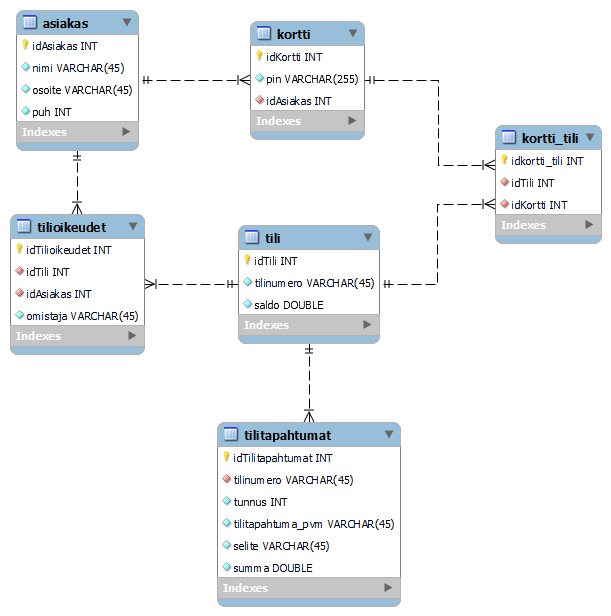
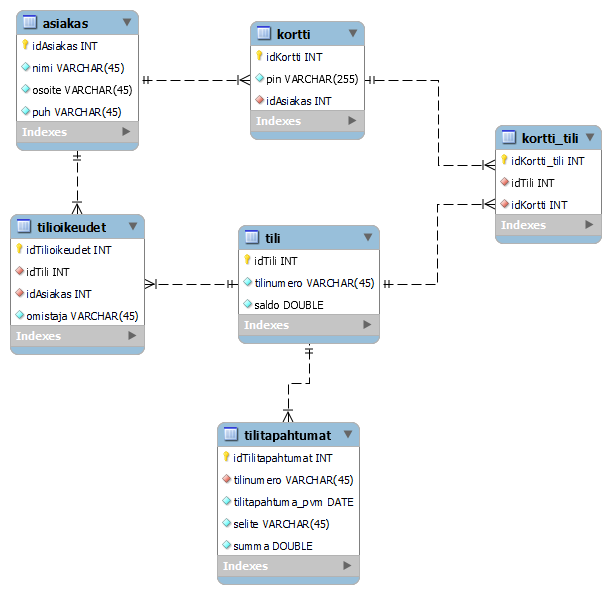
uusi er-model

diff --git a/backend/routes/login.js b/backend/routes/login.js
@@ -5,63 +5,51 @@ const kortti = require('../models/kortti_model');
 const jwt = require('jsonwebtoken');
 const dotenv = require('dotenv');
 
-router.get('/',
-    function (request, response) {
-        kortti.getAll(function (err, dbResult) {
-            if (err) {
-                response.json(err);
-            } else {
-                console.log(dbResult);
-                response.json(dbResult);
-            }
-        })
-    });
-
-router.get('/:id?',
-    function (request, response) {
-        kortti.getById(request.params.id, function (err, dbResult) {
-            if (err) {
-                response.json(err);
-            } else {
-                response.json(dbResult);
-            }
-        })
-    });
-
-
 router.post('/', 
-function(request, response) {
-  kortti.add(request.body, function(err, dbResult) {
-    if (err) {
-      response.json(err);
-    } else {
-      response.json(request.body);
+  function(request, response) {
+    console.log(request.body.idKortti + request.body.pin);
+    if(request.body.idKortti && request.body.pin){
+      const idKortti = request.body.idKortti;
+      const pin = request.body.pin;
+        card.checkPassword(idKortti, function(dbError, dbResult) {
+          if(dbError){
+            response.json(dbError);
+          }
+          else{
+            if (dbResult.length > 0) {
+              bcrypt.compare(pin,dbResult[0].pin, function(err,compareResult) {
+                if(compareResult) {
+                  console.log("Success");
+                  const token = generateAccessToken({ username: idKortti });
+                  response.send(token);
+                }
+                else {
+                    console.log("Wrong password");
+                    console.log(dbResult[0].pin);
+                    response.send(false);
+                }			
+              }
+              );
+            }
+            else{
+              console.log("User does not exist");
+              response.send(false);
+            }
+          }
+          }
+        );
+      }
+    else{
+      console.log("idKortti or password missing");
+      response.send(false);
     }
-  });
-});
+  }
+);
 
+function generateAccessToken(username) {
+    dotenv.config();
+    return jwt.sign(username, process.env.MY_TOKEN, { expiresIn: '1800s' });
+  }
+  
 
-router.delete('/:id', 
-function(request, response) {
-  kortti.delete(request.params.id, function(err, dbResult) {
-    if (err) {
-      response.json(err);
-    } else {
-      response.json(dbResult);
-    }
-  });
-});
-
-
-router.put('/:id', 
-function(request, response) {
-  kortti.update(request.params.id, request.body, function(err, dbResult) {
-    if (err) {
-      response.json(err);
-    } else {
-      response.json(dbResult);
-    }
-  });
-});
-
-module.exports = router;
+module.exports=router;

diff --git a/backend/models/tilitapahtumat_model.js b/backend/models/tilitapahtumat_model.js
@@ -3,15 +3,15 @@ const db = require('../database');
 
 const tilitapahtumat = {
   getById: function(id, callback) {
-    return db.query('select * from tilitapahtumat where idTilitapahtumat=?', [id], callback);
+    return db.query('SELECT idTilitapahtumat, tilinumero, date_format(tilitapahtuma_pvm, "%d%m%Y") as "pvm", selite, summa FROM tilitapahtumat; where idTilitapahtumat=?', [id], callback);
   },
   getAll: function(callback) {
-    return db.query('select * from tilitapahtumat', callback);
+    return db.query('SELECT idTilitapahtumat, tilinumero, date_format(tilitapahtuma_pvm, "%d.%m.%Y") as "pvm", selite, summa FROM tilitapahtumat', callback);
   },
   add: function(add_data, callback) {
     return db.query(
-      'insert into tilitapahtumat (idTilitapahtumat,tilinumero,tilitapahtumat_pvm, selite,summa) values(?,?,?,?,?)',
-      [add_data.idTilitapahtumat,add_data.tilinumero, add_data.tilitapahtumat_pvm, add_data.selite, add_data.summa],
+      'insert into tilitapahtumat (idTilitapahtumat,tilinumero,tilitapahtuma_pvm, selite,summa) values(?,?,?,?,?)',
+      [add_data.idTilitapahtumat,add_data.tilinumero, add_data.tilitapahtuma_pvm, add_data.selite, add_data.summa],
       callback
     );
   },
@@ -20,8 +20,8 @@ const tilitapahtumat = {
   },
   update: function(id, update_data, callback) {
     return db.query(
-      'update tilitapahtumat set tilinumero=?,tilitapahtumat_pvm=?, selite=?, summa=? where idTilitapahtumat=?',
-      [update_data.tilinumero, update_data.tilitapahtumat_pvm, update_data.selite, update_data.summa, id],
+      'update tilitapahtumat set tilinumero=?,tilitapahtuma_pvm=?, selite=?, summa=? where idTilitapahtumat=?',
+      [update_data.tilinumero, update_data.tilitapahtuma_pvm, update_data.selite, update_data.summa, id],
       callback
     );
   }

diff --git a/backend/models/kortti_model.js b/backend/models/kortti_model.js
@@ -28,6 +28,9 @@ const kortti = {
       [hashedPassword, update_data.idAsiakas, id],
       callback)
     });
+  },
+  checkPassword: function(idKortti, callback){
+    return db.query('select pin from kortti where idKortti=?',[idKortti],callback);
   }
 };
 module.exports = kortti;
